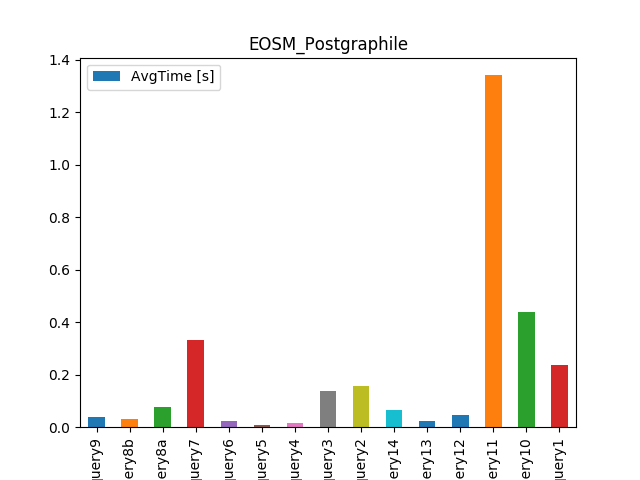
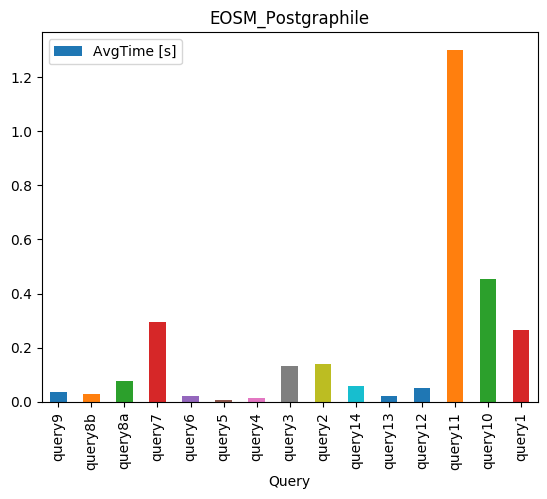
updated images

diff --git a/DBaaS/run.py b/DBaaS/run.py
@@ -27,7 +27,7 @@ def save_df_plot(data_frame, title, show=False):
     df.plot.bar(x='Query', y='AvgTime [s]', rot=90, title=title)
     path = os.path.join(dir_path, 'results')
     path = os.path.join(path, title + '.png')
-    plt.savefig(path)
+    plt.savefig(path, bbox_inches='tight')
     if show:
         plt.show()
 

diff --git a/README.md b/README.md
@@ -53,7 +53,7 @@ python3 postgrest_requests.py
 
 ## Impressions
 ![EOSM_Postgraphile](DBaaS/results/EOSM_Postgraphile.png)
-![SAKILA_Postgraphile](DBaaS/results/SAKILA_Postgraphile.png)
-
 ![EOSM_PostgREST](DBaaS/results/EOSM_PostgREST.png)
+
+![SAKILA_Postgraphile](DBaaS/results/SAKILA_Postgraphile.png)
 ![SAKILA_PostgREST](DBaaS/results/SAKILA_PostgREST.png)
